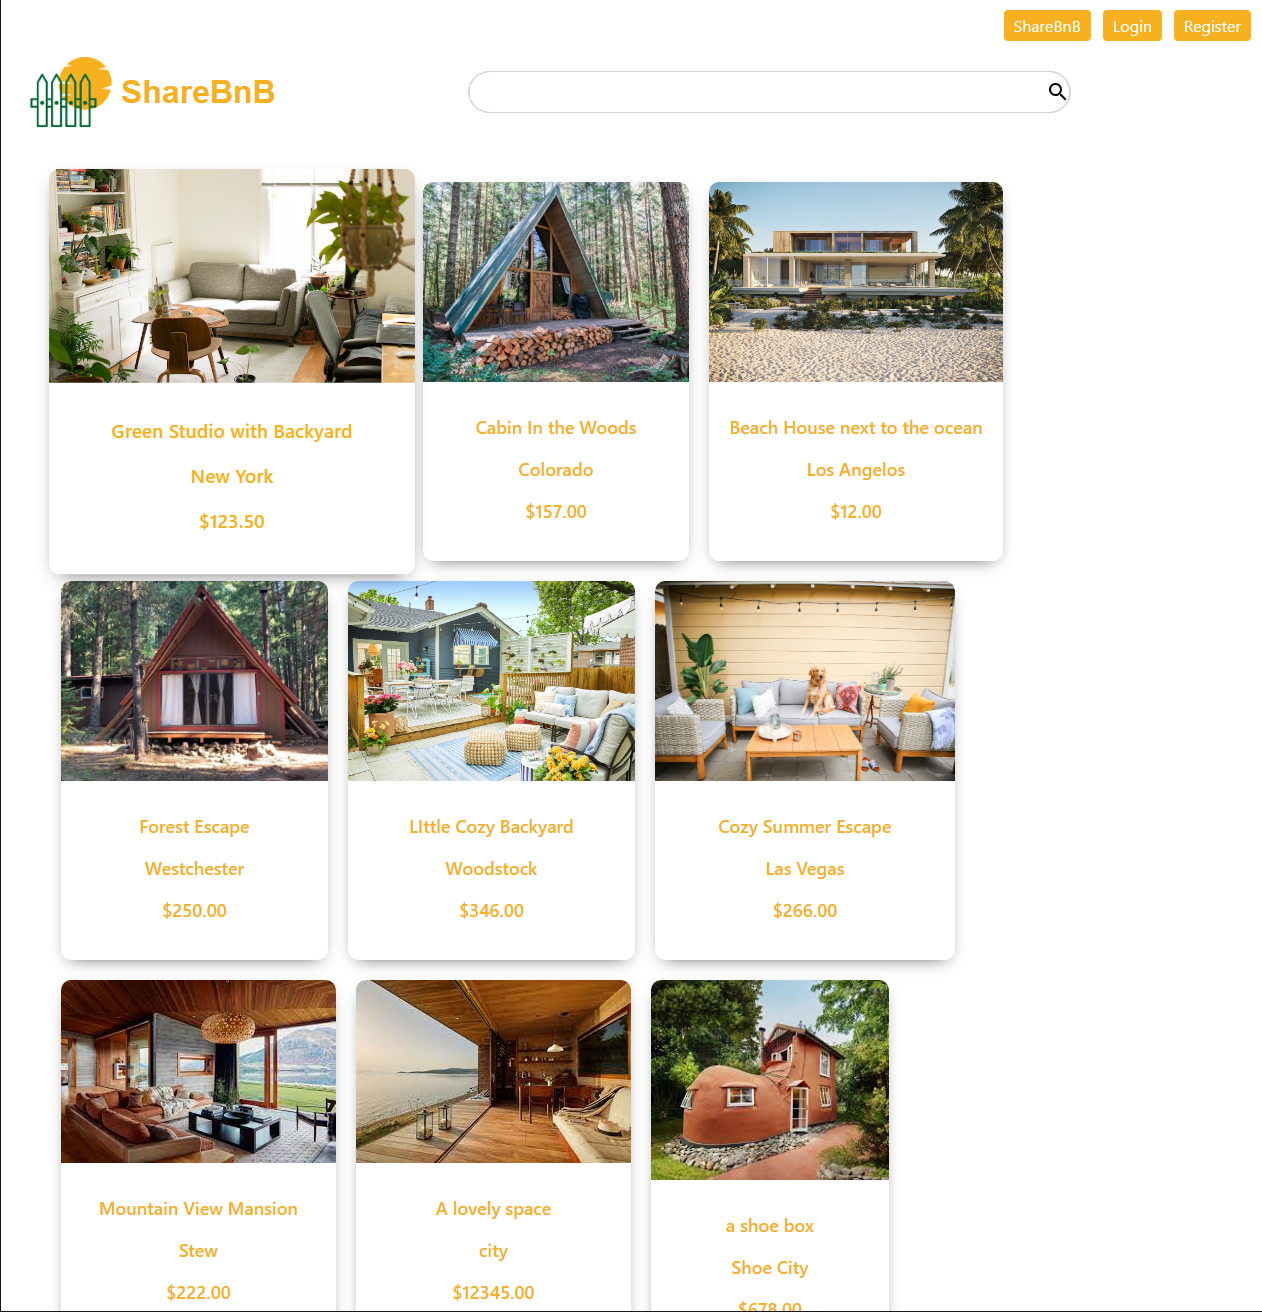
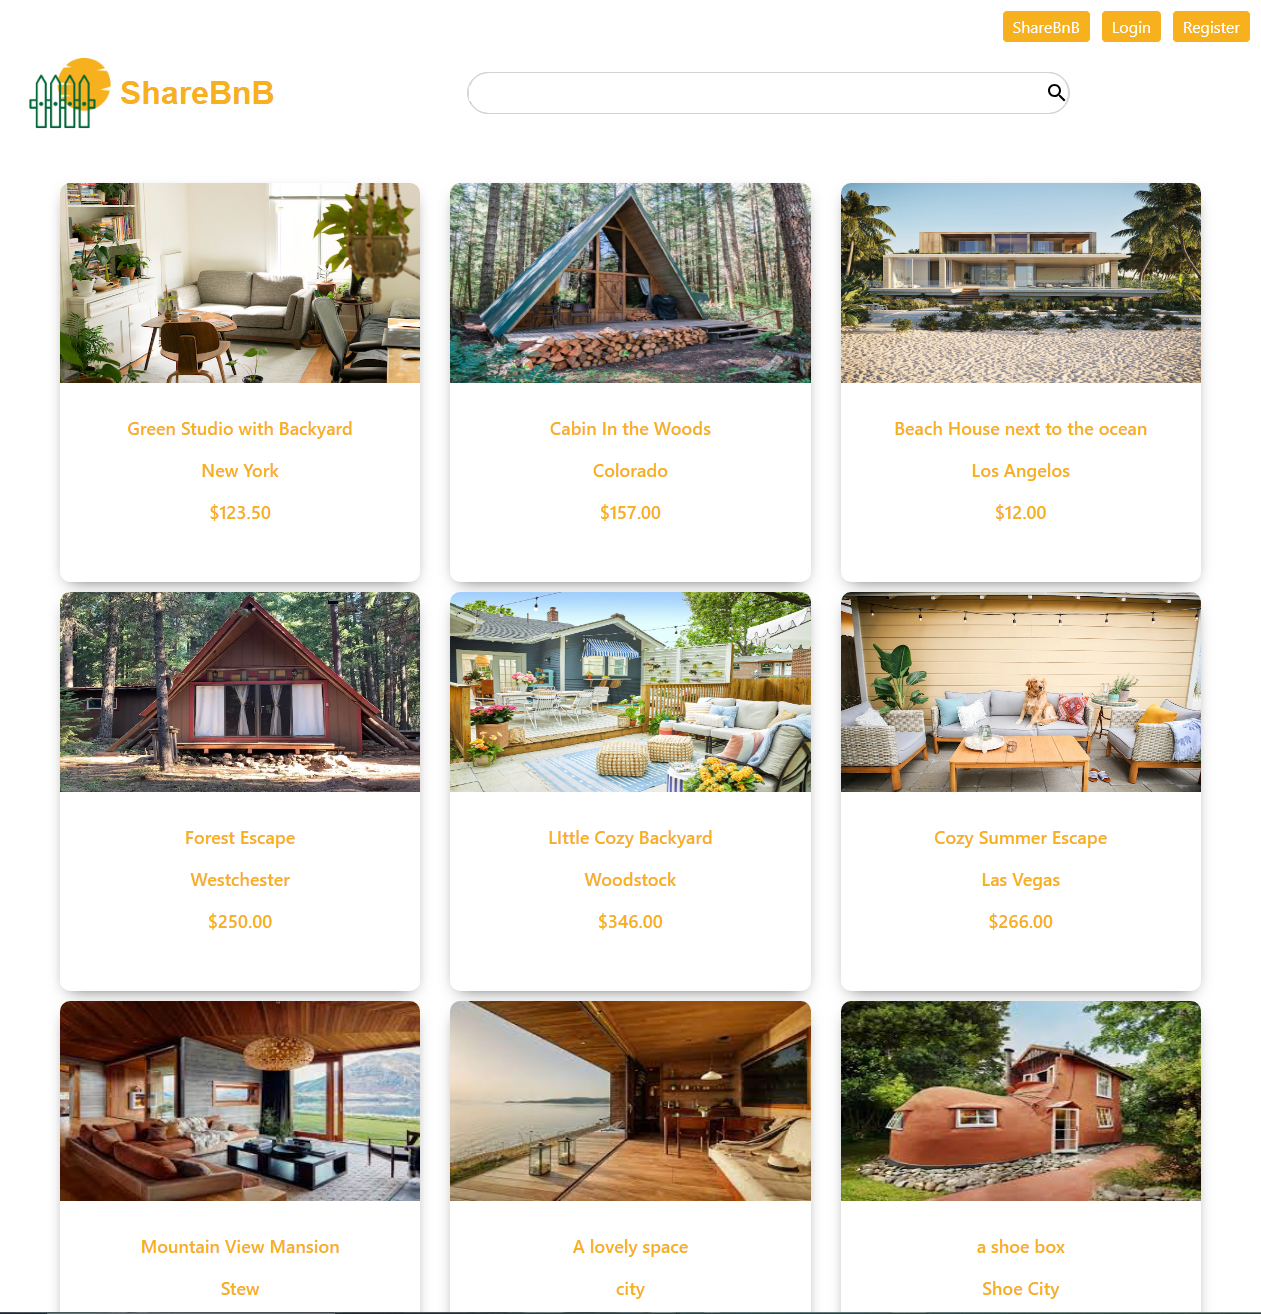
Style project images and updated images for better visibility

diff --git a/components/Projects.tsx b/components/Projects.tsx
@@ -27,7 +27,7 @@ const Projects = () => {
                             <div className='relative w-full h-full overflow-hidden lg:rounded-3xl bg-[#13162d]'>
                                 <img src='/bg.png' alt='bg-img'/>
                             </div>
-                            <img src={img} alt={title} className='z-10 absolute bottom-0'/>
+                            <img src={img} alt={title} className='z-10 absolute -bottom-28 w-3/5 rounded-xl rotate-[15deg]'/>
                         </div>
                         <h1 className='font-bold lg:text-2xl md:text-xl text-base line-clamp-1'>
                             {title}

diff --git a/data/index.ts b/data/index.ts
@@ -94,14 +94,6 @@ export const projects = [
     iconLists: ["/re.svg", "Express.svg", "Bootstrap.svg", "/Javascript.svg","/PostgresSQL.svg", "/Sequelize.svg", "/amazon-s3.svg"],
     link: "https://github.com/adrianhajdin/ai_saas_app",
   },
-  {
-    id: 4,
-    title: "Animated Apple Iphone 3D Website",
-    des: "Recreated the Apple iPhone 15 Pro website, combining GSAP animations and Three.js 3D effects..",
-    img: "/p4.svg",
-    iconLists: ["/next.svg", "/tail.svg", "/ts.svg", "/three.svg", "/gsap.svg"],
-    link: "https://github.com/adrianhajdin/iphone",
-  },
 ];
 
 export const techRight = [
